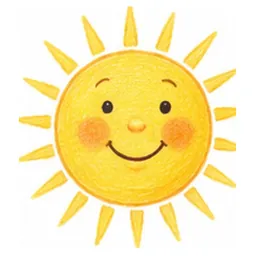
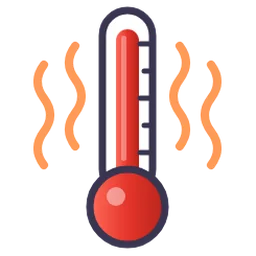
Allemand : warm = thermomètre (au lieu du soleil)
Claude-Session: https://claude.ai/code/session_01UkP11uCuPaN6MyB6YyqYQX

diff --git a/jeux/allemand-mots.js b/jeux/allemand-mots.js
@@ -38,7 +38,7 @@ var DE_RAW=[
  "8|die|Maus|🐭","8||malen|🎨","8|die|Musik|🎶","8|die|Ampel|🚦","8|das|Mäppchen|","8||schwimmen|🏊",
  "9|die|Traube|🍇","9|die|Laterne|🏮","9||leuchten|🔦","9||teilen|","9||falten|📄","9||bunt|🌈",
  "10|die|Nase|👃","10|die|Gans|","10|der|Mantel|🧥","10|der|Nebel|🌫","10||brennen|🔥","10||neun|9⃣",
- "11|der|Wald|🌲","11||weiß|⚪","11||warm|☀","11||wünschen|🎁","11|der|Winter|❄","11||schwarz|⚫",
+ "11|der|Wald|🌲","11||weiß|⚪","11||warm|🌡","11||wünschen|🎁","11|der|Winter|❄","11||schwarz|⚫",
  "12|die|Kerze|🕯","12|der|Korb|🧺","12||kalt|🥶","12|der|Keks|🍪","12|das|Kind|🧒","12||trinken|🥤",
  "13|die|Puppe|🪆","13|der|Pinsel|🖌","13|das|Rezept|📃","13||klopfen|✊🚪","13|das|Spritzgebäck|","13|die|Aprikose|🍑",
  "14|der|Baum|🌳","14|der|Tannenbaum|🎄","14|die|Butter|🧈","14|die|Gabel|🍴","14||backen|🧑🍳","14||blau|🔵",

diff --git a/sw.js b/sw.js
@@ -1,6 +1,6 @@
 // Service worker : fonctionnement hors ligne.
 // Pensez à changer VERSION à chaque mise à jour des fichiers pour que les téléphones la récupèrent.
-var VERSION = "v153";
+var VERSION = "v154";
 var CACHE = "jeux-ecole-" + VERSION;
 var FILES = [
   "./",

diff --git a/CLAUDE.md b/CLAUDE.md
@@ -120,6 +120,7 @@ Cibles >= 56px, bordures 3px, textes secondaires >= 16px, menus centrés vertica
 - **Images Gemini (en cours)** : l'utilisateur génère les images des mots dans l'appli Gemini de son téléphone, un peu chaque jour, avec les consignes de `outils/gemini-images.md` (produit par `outils/gen_prompts.py` : style commun + sujet par mot, 230 mots, mots sans image d'abord, 20 par jour). Il renvoie les images dans la session avec leurs numéros (conseil donné : coller d'abord un message de style unique dans une nouvelle conversation, puis un sujet par message ; Gemini peut proposer plusieurs variantes, on garde la meilleure). Intégration : `python3 outils/images.py <image> <Mot> …` rogne le blanc, met en carré, réduit à 256 px, enregistre `jeux/img/de/<slug>.webp` (ä→ae, ö→oe, ü→ue, ß→ss), met à jour `DE_IMG` dans `allemand-mots.js` (l'image est prioritaire sur l'emoji et le dessin : `deImg` = `<img class="deimg">` 1,3em, chemin relatif à l'accueil) et la liste entre `// images-de` dans `sw.js`. Puis changer `VERSION`. Faites : 1 à 125 (tous les mots ont une image). **Planches 2 à 6 (126-230, tous les mots du manuel en style crayon) et Lerne A (L1-L25) faites avec ChatGPT, images détourées sur fond transparent : découpe `python3 outils/decoupe.py planche.png dossier` (composantes connexes : parasites retirés, traits fins gardés, dessins entiers même s'ils débordent ; `colonnes lignes` en option, ex. `5 1`), puis `images.py` (garde la transparence). **Prompts prêts : `outils/chatgpt-planches.md`** (planche 3, planche 5 avec chiffres, et Lerne A/B/C = les 74 mots de « Lerne neue Wörter » sans image, numérotés L1-L74, grilles 5 × 5 ; à intégrer avec `decoupe.py` puis `images.py <img> <Mot>`, ce qui les fait entrer dans l'exercice). Reste : Lerne B et C (`chatgpt-planches.md`) ; **les nombres (zwei, sechs, sieben, neun, zwölf) = gros chiffres dessinés, pas des objets à compter** (à la demande de l'utilisateur : zwei, neun, sieben, sechs refaits avec la planche 5, en grille 6 × 5, dernière case vide) (prompt : vraie transparence, pas de damier, pas de cadre, sujets séparés ; sujets blancs avec contour, pas de décor).** Rappel quotidien à 11 h 53 (Paris) demandé par l'utilisateur : tâche planifiée « Rappel : images Gemini manquantes » (`trig_01YDTJjxTUJCC9bXXBs6b6VL`), à supprimer quand tout est fait, brauchen refait avec parapluie ; planches d'harmonisation : planche 1 faite (kneten, Jäger refaits, 103-125) (planches découpées ; les cases à bordure grise sont détectées par profils de pixels non blancs, puis rognées de 9 px). Gemini peut générer une planche de 20 images en une fois : découper en grille (cases de largeur/5), puis outils/images.py. Noter chaque mot Gemini fait dans `outils/gemini-faits.txt`.
 - **Fluent Emoji 3D** (à la demande de l'utilisateur : « Fluent pour tout ce qui représente très bien les mots, Gemini pour les autres ») : `outils/fluent.py` (liste `F` mot → emoji ; plusieurs emoji = images côte à côte, ex. Vögel, Bäume, Mäuse, zwölf) télécharge `@lobehub/fluent-emoji-3d` (npm, MIT) et écrit `jeux/img/de/<slug>.webp`, sans jamais écraser un mot de `gemini-faits.txt`. 128 mots en Fluent ; retirés car pas assez clairs : Fuß, Nebel, waschen, Freund, Freundin (→ Gemini). Ensuite (demande de l'utilisateur : « passer toute émoticône en images générées », style crayon unique) : les mots Fluent sont numérotés 103-230 dans `gemini-images.md`, et `outils/gemini-planches.md` donne des planches de 25 prêtes à coller (planche 1 = refaire aussi kneten et der Jäger). Une image Gemini remplace l'image Fluent (ajouter le mot à `gemini-faits.txt`).
 - **📖 Mots d'allemand** (Paramètres, à la demande de l'utilisateur : « gérer la liste de mots allemand et leur image, rajouter des mots ; tu me demanderas les images ») : pages `dewords` (liste par leçon avec image, recherche, « + Ajouter un mot », carte « 🖼 Mots sans image » avec consigne Gemini à copier, `dwPrompt`) et `deword` (fiche : 📷 choisir une image sur le téléphone → éditeur `phOpen(f, cb)` en carré, fond blanc, 256 px WebP ; image d'origine ; pour un mot ajouté : article, mot (majuscule auto pour un nom), leçon (défaut 100 = Dictionnaire), « image à dessiner » en français, liste des courses ; masquer un mot du manuel ; supprimer un mot ajouté). Données sur le téléphone : `localStorage.de_words = {add:[{id,n,a,w,fr,buy}], img:{Mot:dataURL}, hide:[Mot]}` ; `deBuild()` (fin de `allemand-mots.js`) calcule `DE_ALL` (tout), `DE_WORDS` (sans les masqués), `DE_BUY` (= `DE_BUY0` + mots ajoutés « courses ») ; image du téléphone > image du dépôt > emoji > dessin. Quand l'utilisateur envoie les images de ses mots ajoutés, les intégrer au dépôt (ligne `DE_RAW` + `outils/images.py`) : un mot du dépôt l'emporte sur le même mot ajouté.
+- **warm** = thermomètre rouge presque plein avec des vagues de chaleur (dessin SVG maison rendu en `jeux/img/de/warm.webp`, à la demande de l'utilisateur : le soleil faisait doublon avec sonnig).
 - Pas de doublon d'emoji entre mots (sinon deux réponses auraient la même image).
 - `DE_SVG` (dans `allemand-mots.js`) : dessins maison partagés par **tous** les jeux d'allemand quand un emoji ne suffit pas (taille 1,3em, comme un emoji) ; utilisé si le champ image de `DE_RAW` est vide. Pour l'instant : **Obst = corbeille de fruits** (banane, raisin, pomme, orange), à la demande de l'utilisateur (une fraise ne voulait pas dire « les fruits ») ; **teilen = chocolat cassé en deux, une moitié pour chaque enfant** (choix A de l'utilisateur ; 🤝 faisait penser à « saluer ») ; **Flöte = flûte à bec** (🪈 absent des anciens Android) ; **Qualle = méduse violette souriante** (🪼 absent des anciens Android) ; **Pyramide = pyramide dans le désert avec le soleil** (à la demande de l'utilisateur) ; dessins des noms sans emoji (à la demande de l'utilisateur) : Junge, Mädchen, Schüler/Schülerin (enfant avec cartable et livre), Schornsteinfeger, Jäger (chapeau à plume, jumelles, sans arme), Spritzgebäck, Kleber (bâton de colle), Schwanz (queue de renard), Pfeife (**sifflet**, pas une pipe), Zeh (pied, flèche sur le gros orteil), Kessel, Klecks, Jacke, Stiel (fleur, flèche sur la tige), Streifen, Kreuzung, Maßband. Restent sans image : der Durst, der Knicks, les verbes, adjectifs et petits mots abstraits.
 - **🆕 Lerne neue Wörter** (`jeux/lerne.html`, hash `#lerne`, jeu `lerne`, à la demande de l'utilisateur) : apprentissage sans étoiles ni réponses ; une carte = image en grand + mot avec son article (couleur der/die/das ; **un mot d'un seul tenant ne se coupe jamais** : taille réduite jusqu'à ce qu'il tienne, à la demande de l'utilisateur) + voix allemande ; dessous, deux boutons 🔊 : sur fond de drapeau allemand à gauche (réécouter en allemand) et de drapeau français à droite (dire la traduction, `DE_FR` dans `allemand-mots.js`, aussi copiée dans `x.fr` des mots du dépôt) ; flèche → = mot suivant. **Séries de 6 mots** (à la demande de l'utilisateur) : après les 6 mots, quiz sur chacun dans le désordre : l'image seule + 2 pastilles écrites (le bon mot + un autre de la série ; mauvais = barré rouge, on réessaie) ; bon mot = dit en allemand puis mot suivant ; à la fin de la série `roundEnd` et série suivante (`lerne_i@` = début de la série en cours). **Résultats** : un message `answer` par mot du quiz (`ok` = du premier coup, `diff` 1, `k` = thème `DE_THEME` : Famille, Corps, Animaux, Nourriture…, `item` = « der Hund ») ; pas d'étoiles (`ECON.P.lerne` absent) ; `PART.lerne` = parties de 12 mots (réponses du quiz) ; `RDESC.lerne`. Ordre mélangé une fois et position gardés par profil (`lerne_ord@`, `lerne_i@`), mots nouveaux ajoutés à la fin. Mots = `DE_NEW` : mots du **dépôt en leçon 100** (Dictionnaire hors manuel : 245 mots du vocabulaire de base d'un enfant de 6 ans — famille, corps, animaux, nourriture, vêtements, maison, jeux et fêtes, véhicules, nature, métiers, nombres, couleurs, verbes, adjectifs, politesse — **+ Klementine**) **qui ont une image** ; ces mots (`x.neu`) sont **exclus de tous les autres exercices** (`DE_WORDS` ne les contient pas, ni `deOn`, ni Memory/Courses ; seulement `DE_ALL`). Icônes : Fluent Emoji 3D (`outils/fluent.py`, dictionnaire « Lerne neue Wörter », un emoji introuvable est sauté) pour 171 mots ; les ~74 autres (abstraits : Bruder, Kopf, rosa, gehen, hallo…) sont dans le dictionnaire sans image et n'apparaissent dans l'exercice qu'une fois illustrés (image du dépôt ou du téléphone). Dans 📖 Mots d'allemand, ils n'ont pas d'interrupteur (« 🆕 Lerne neue Wörter » s'ils sont illustrés). Les mots ajoutés sur le téléphone (`de_words.add`) restent dans les exercices habituels.
